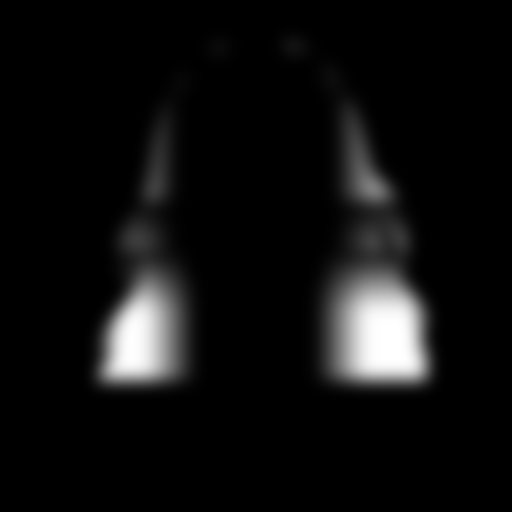
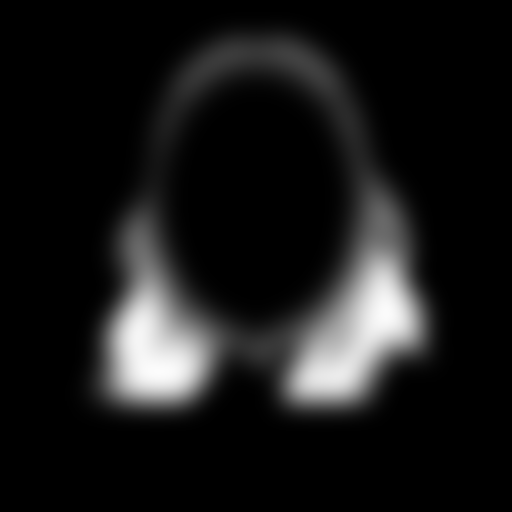
Hair flow: Better mask coverage, 3x stronger displacement, dual sine waves for organic motion

Changed region(s): [[0.1562, 0.25, 0.875, 0.8125], [0.3125, 0.0625, 0.6875, 0.2188]]

diff --git a/src/components/HairFlow.tsx b/src/components/HairFlow.tsx
@@ -17,15 +17,15 @@ interface HairFlowProps {
 }
 
 // Mesh grid resolution (lower = faster, higher = smoother)
-const GRID_COLS = 24;
-const GRID_ROWS = 24;
+const GRID_COLS = 20;
+const GRID_ROWS = 20;
 
 // Animation parameters
-const FLOW_SPEED = 0.8;      // How fast the wave moves
-const FLOW_AMOUNT_X = 2.5;   // Max horizontal displacement in pixels
-const FLOW_AMOUNT_Y = 1.5;   // Max vertical displacement in pixels
-const WAVE_FREQ_X = 3.0;     // Horizontal wave frequency
-const WAVE_FREQ_Y = 2.0;     // Vertical wave frequency
+const FLOW_SPEED = 0.6;      // How fast the wave moves
+const FLOW_AMOUNT_X = 6.0;   // Max horizontal displacement in pixels
+const FLOW_AMOUNT_Y = 3.5;   // Max vertical displacement in pixels
+const WAVE_FREQ_X = 2.0;     // Horizontal wave frequency
+const WAVE_FREQ_Y = 1.5;     // Vertical wave frequency
 
 export default function HairFlow({ imageSrc, maskSrc, width, height, className }: HairFlowProps) {
   const canvasRef = useRef<HTMLCanvasElement>(null);
@@ -136,9 +136,11 @@ export default function HairFlow({ imageSrc, maskSrc, width, height, className }
         const centerY = (gy + 0.5) / GRID_ROWS;
         
         const dx = Math.sin(t + centerY * WAVE_FREQ_Y * Math.PI * 2 + centerX * 1.5) 
-                 * FLOW_AMOUNT_X * avgInfluence;
+                 * FLOW_AMOUNT_X * avgInfluence
+                 + Math.sin(t * 1.3 + centerY * 3.5) * 2.0 * avgInfluence;
         const dy = Math.cos(t * 0.7 + centerX * WAVE_FREQ_X * Math.PI * 2 + centerY * 1.2) 
-                 * FLOW_AMOUNT_Y * avgInfluence;
+                 * FLOW_AMOUNT_Y * avgInfluence
+                 + Math.cos(t * 0.5 + centerX * 2.8) * 1.5 * avgInfluence;
 
         // Draw displaced cell
         ctx.drawImage(img, sx, sy, srcCellW, srcCellH,
